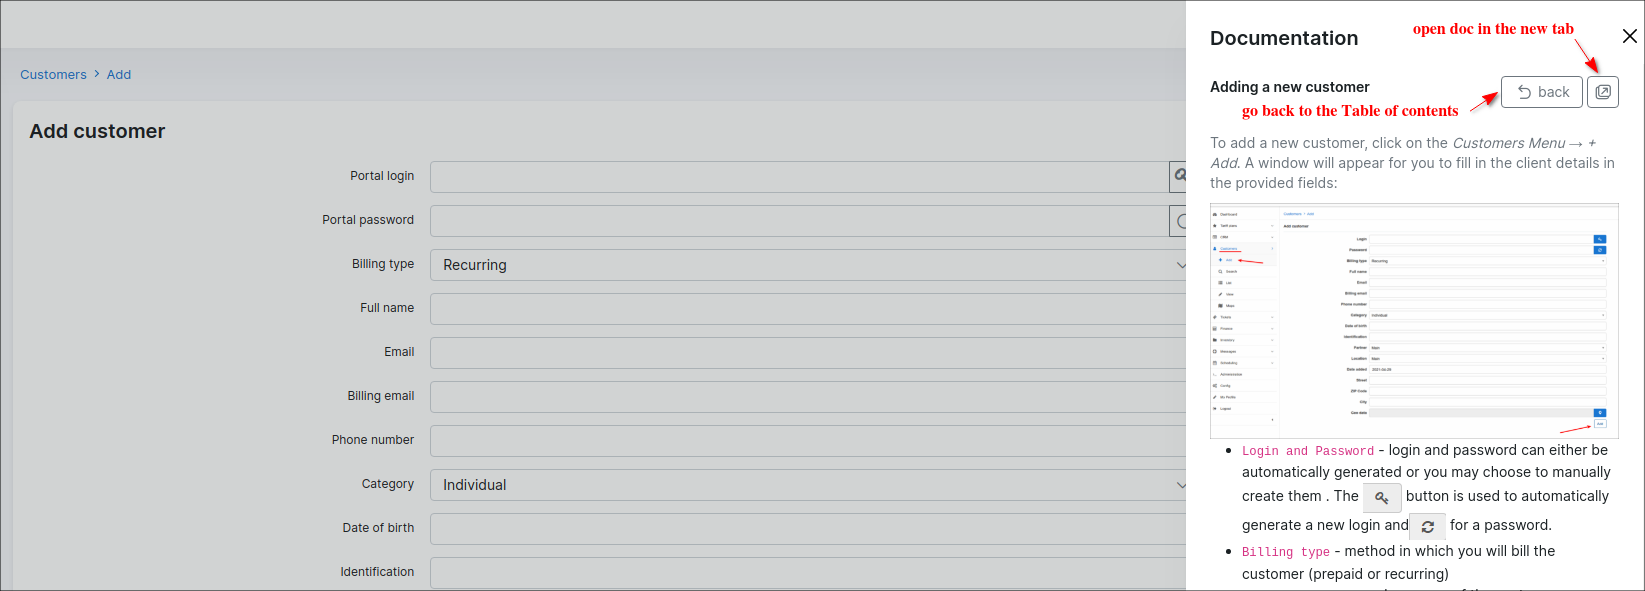
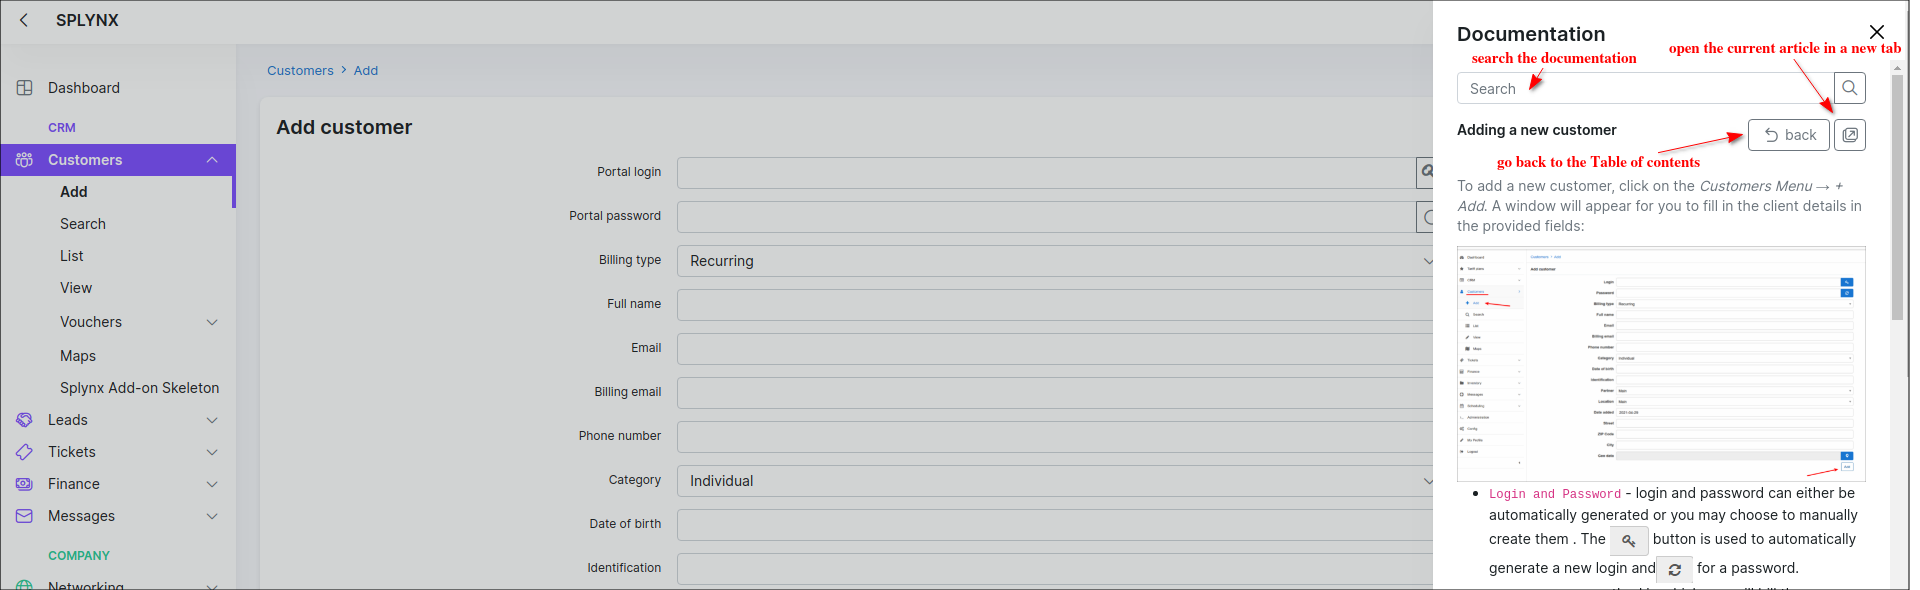
added info from SPL-8544

diff --git a/files/en/dashboard/dashboard.md b/files/en/dashboard/dashboard.md
@@ -101,7 +101,7 @@ In the upper right corner of the page the **ACCOUNT** menu is located with the n
 | <icon class="image-icon">![image](quick_addition.png)</icon> <br> **Quick addition** | the following actions available: `Add lead`, `Add customer`, `Add ticket`, `Add task`.  |
 | <icon class="image-icon">![image](search.png)</icon> <br> **Search** |the global search of Splynx. |
 | <icon class="image-icon">![image](help_and_support.png)</icon> <br> **Help and Support**| create a new ticket for Splynx support.   |
-| <icon class="image-icon">![image](documentation.png)</icon> <br> **Documentation** | open the documentation in the sidebar. Each article can be opened in a new window. |
+| <icon class="image-icon">![image](documentation.png)</icon> <br> **Documentation** | open the documentation in the sidebar. Each article can be opened in a new window. In addition, you can search for the guide you need by keywords. |
 | <icon class="image-icon">![image](notifications.png)</icon> <br> **Notifications** | the list of recent notifications.|
 
 **Quick addition**
@@ -126,7 +126,7 @@ The action is used to create a ticket for Splynx support team. Please, use this 
 
 ![Screenshot](doc_icon.png)
 
-The instant access to the appropriate documentation in the Splynx window. Depending on which page you are on, the necessary manual will open in the right sidebar after clicking on the icon. The manual can be opened in a separate tab of the web browser and you can navigate to the `Table of contents` of the full documentation as well.
+It's provided the instant access to the appropriate documentation in the Splynx window. Depending on which page you are on, the necessary manual will open in the right sidebar after clicking on the icon. The manual can be opened in a separate tab of the web browser and you can navigate to the `Table of contents` of the full documentation or search the necessary guide as well.
 
 **Notifications**
 
